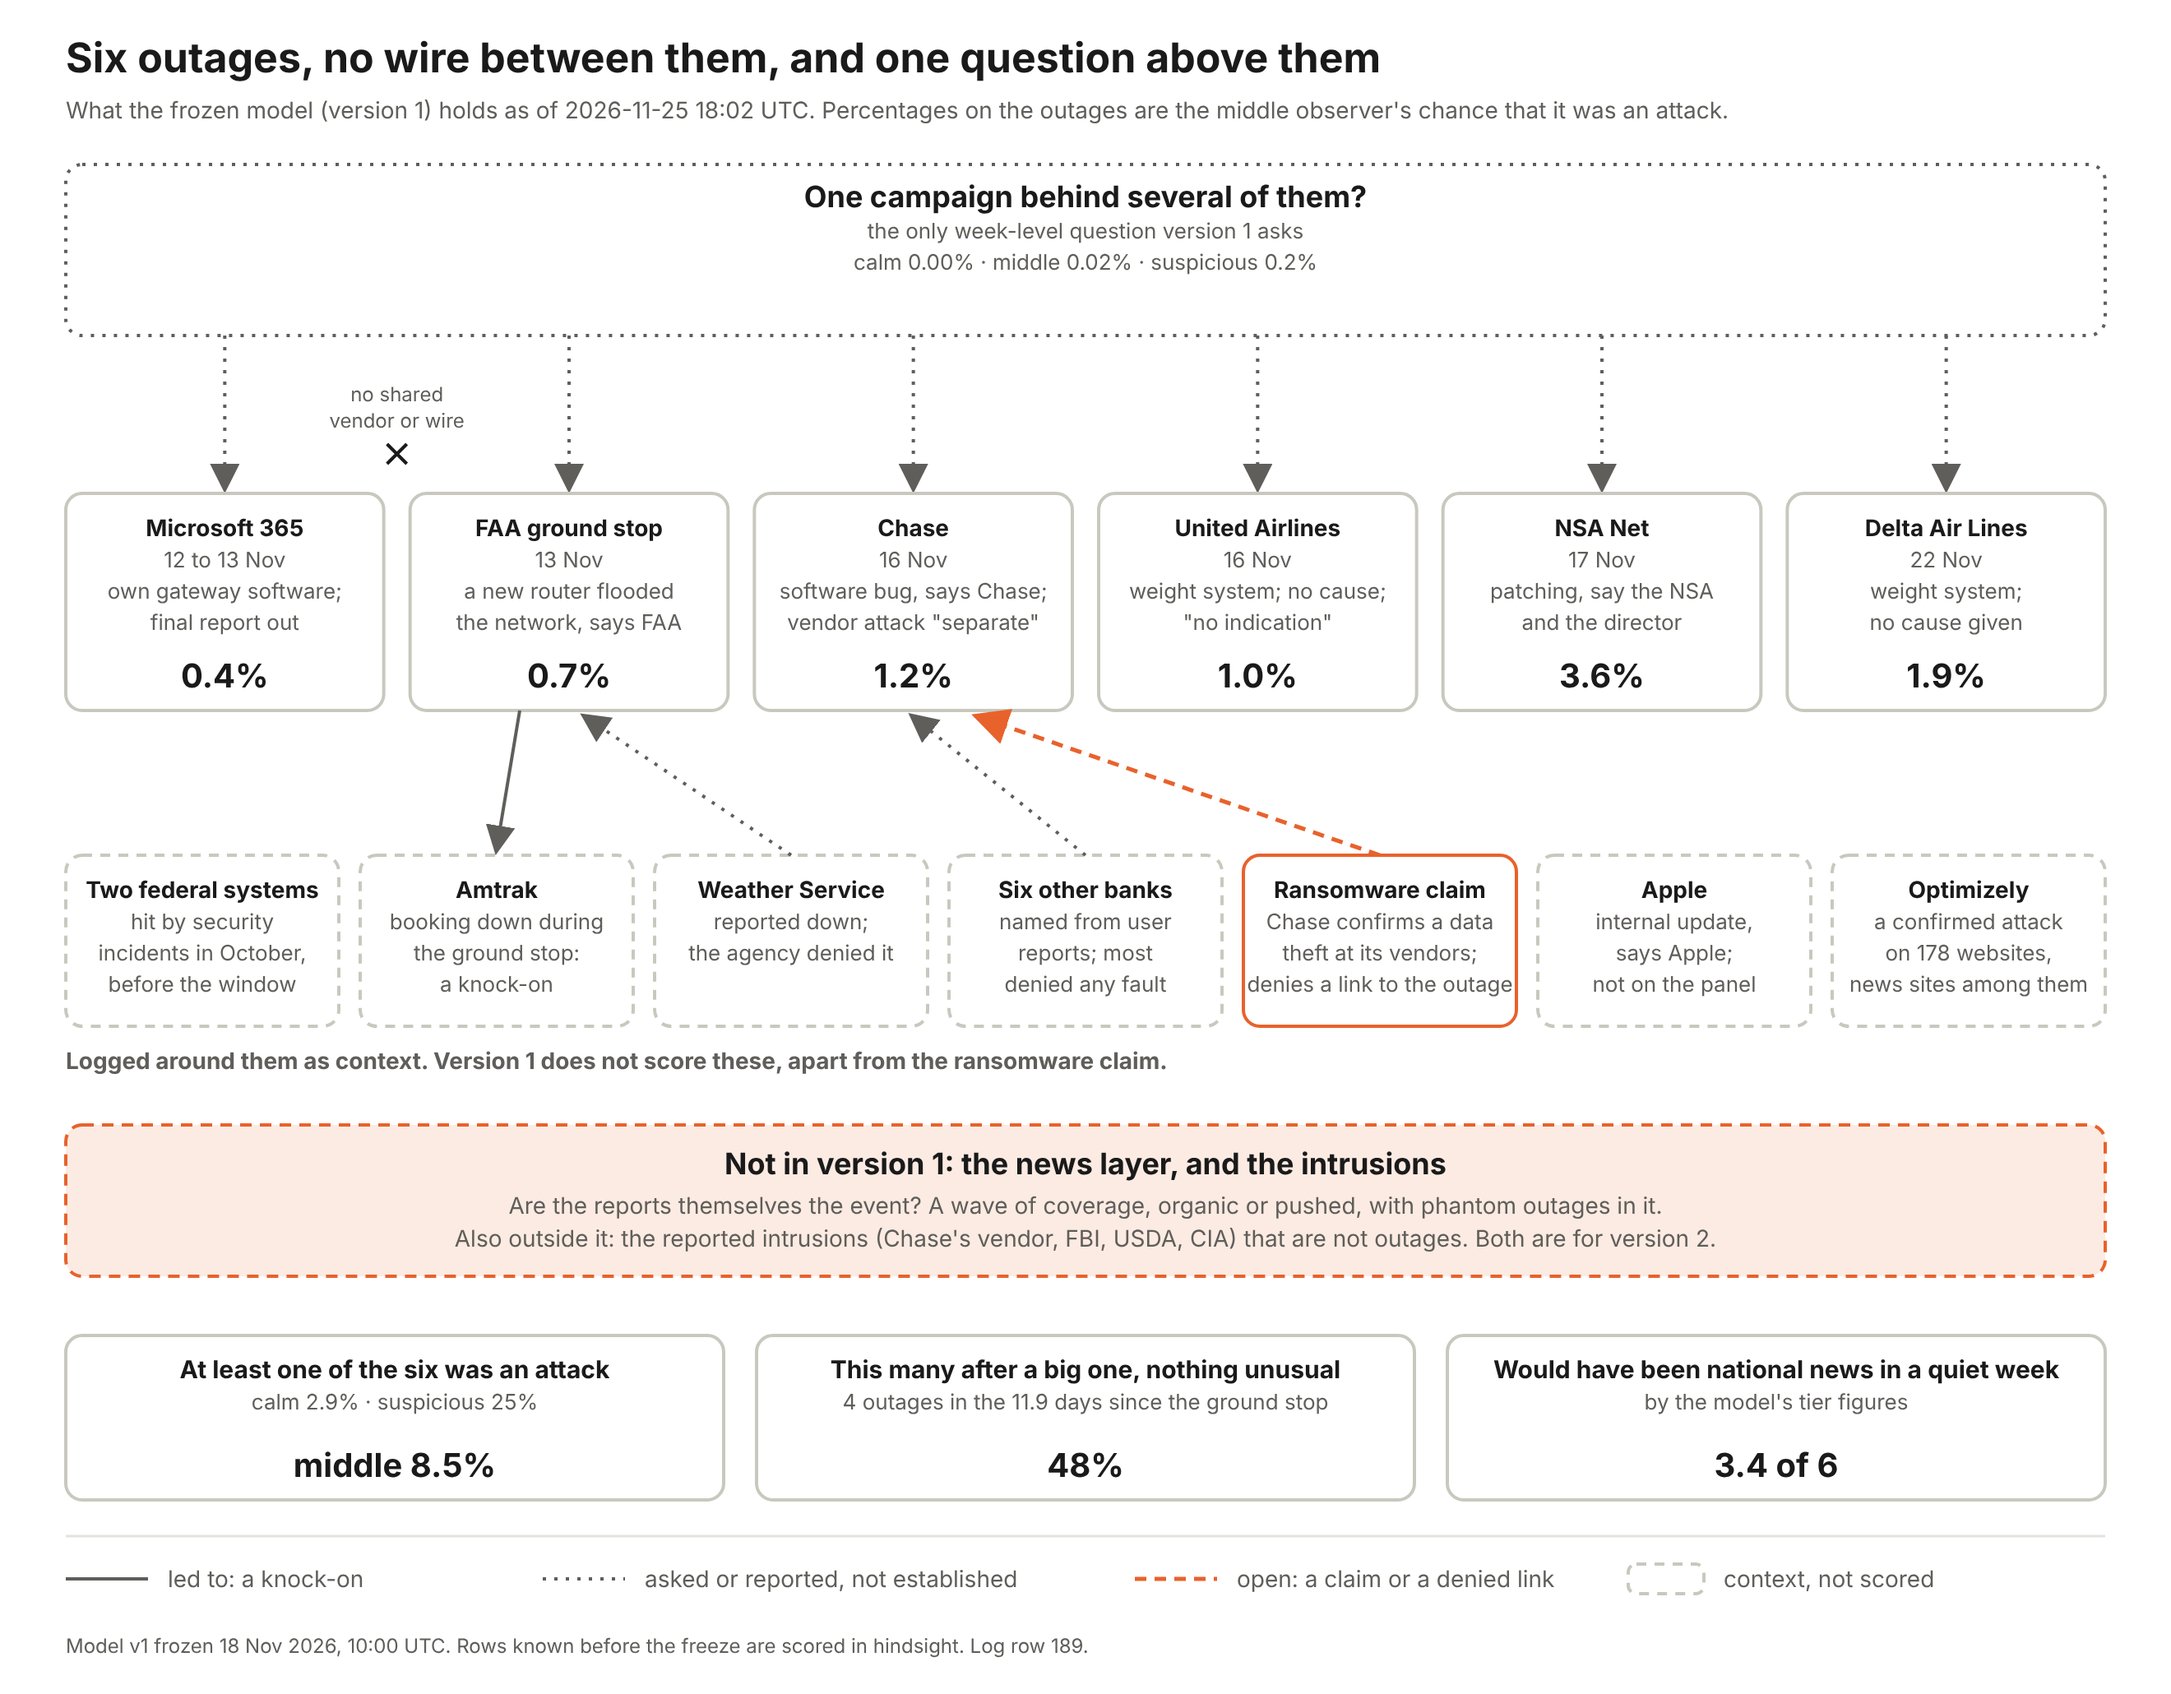
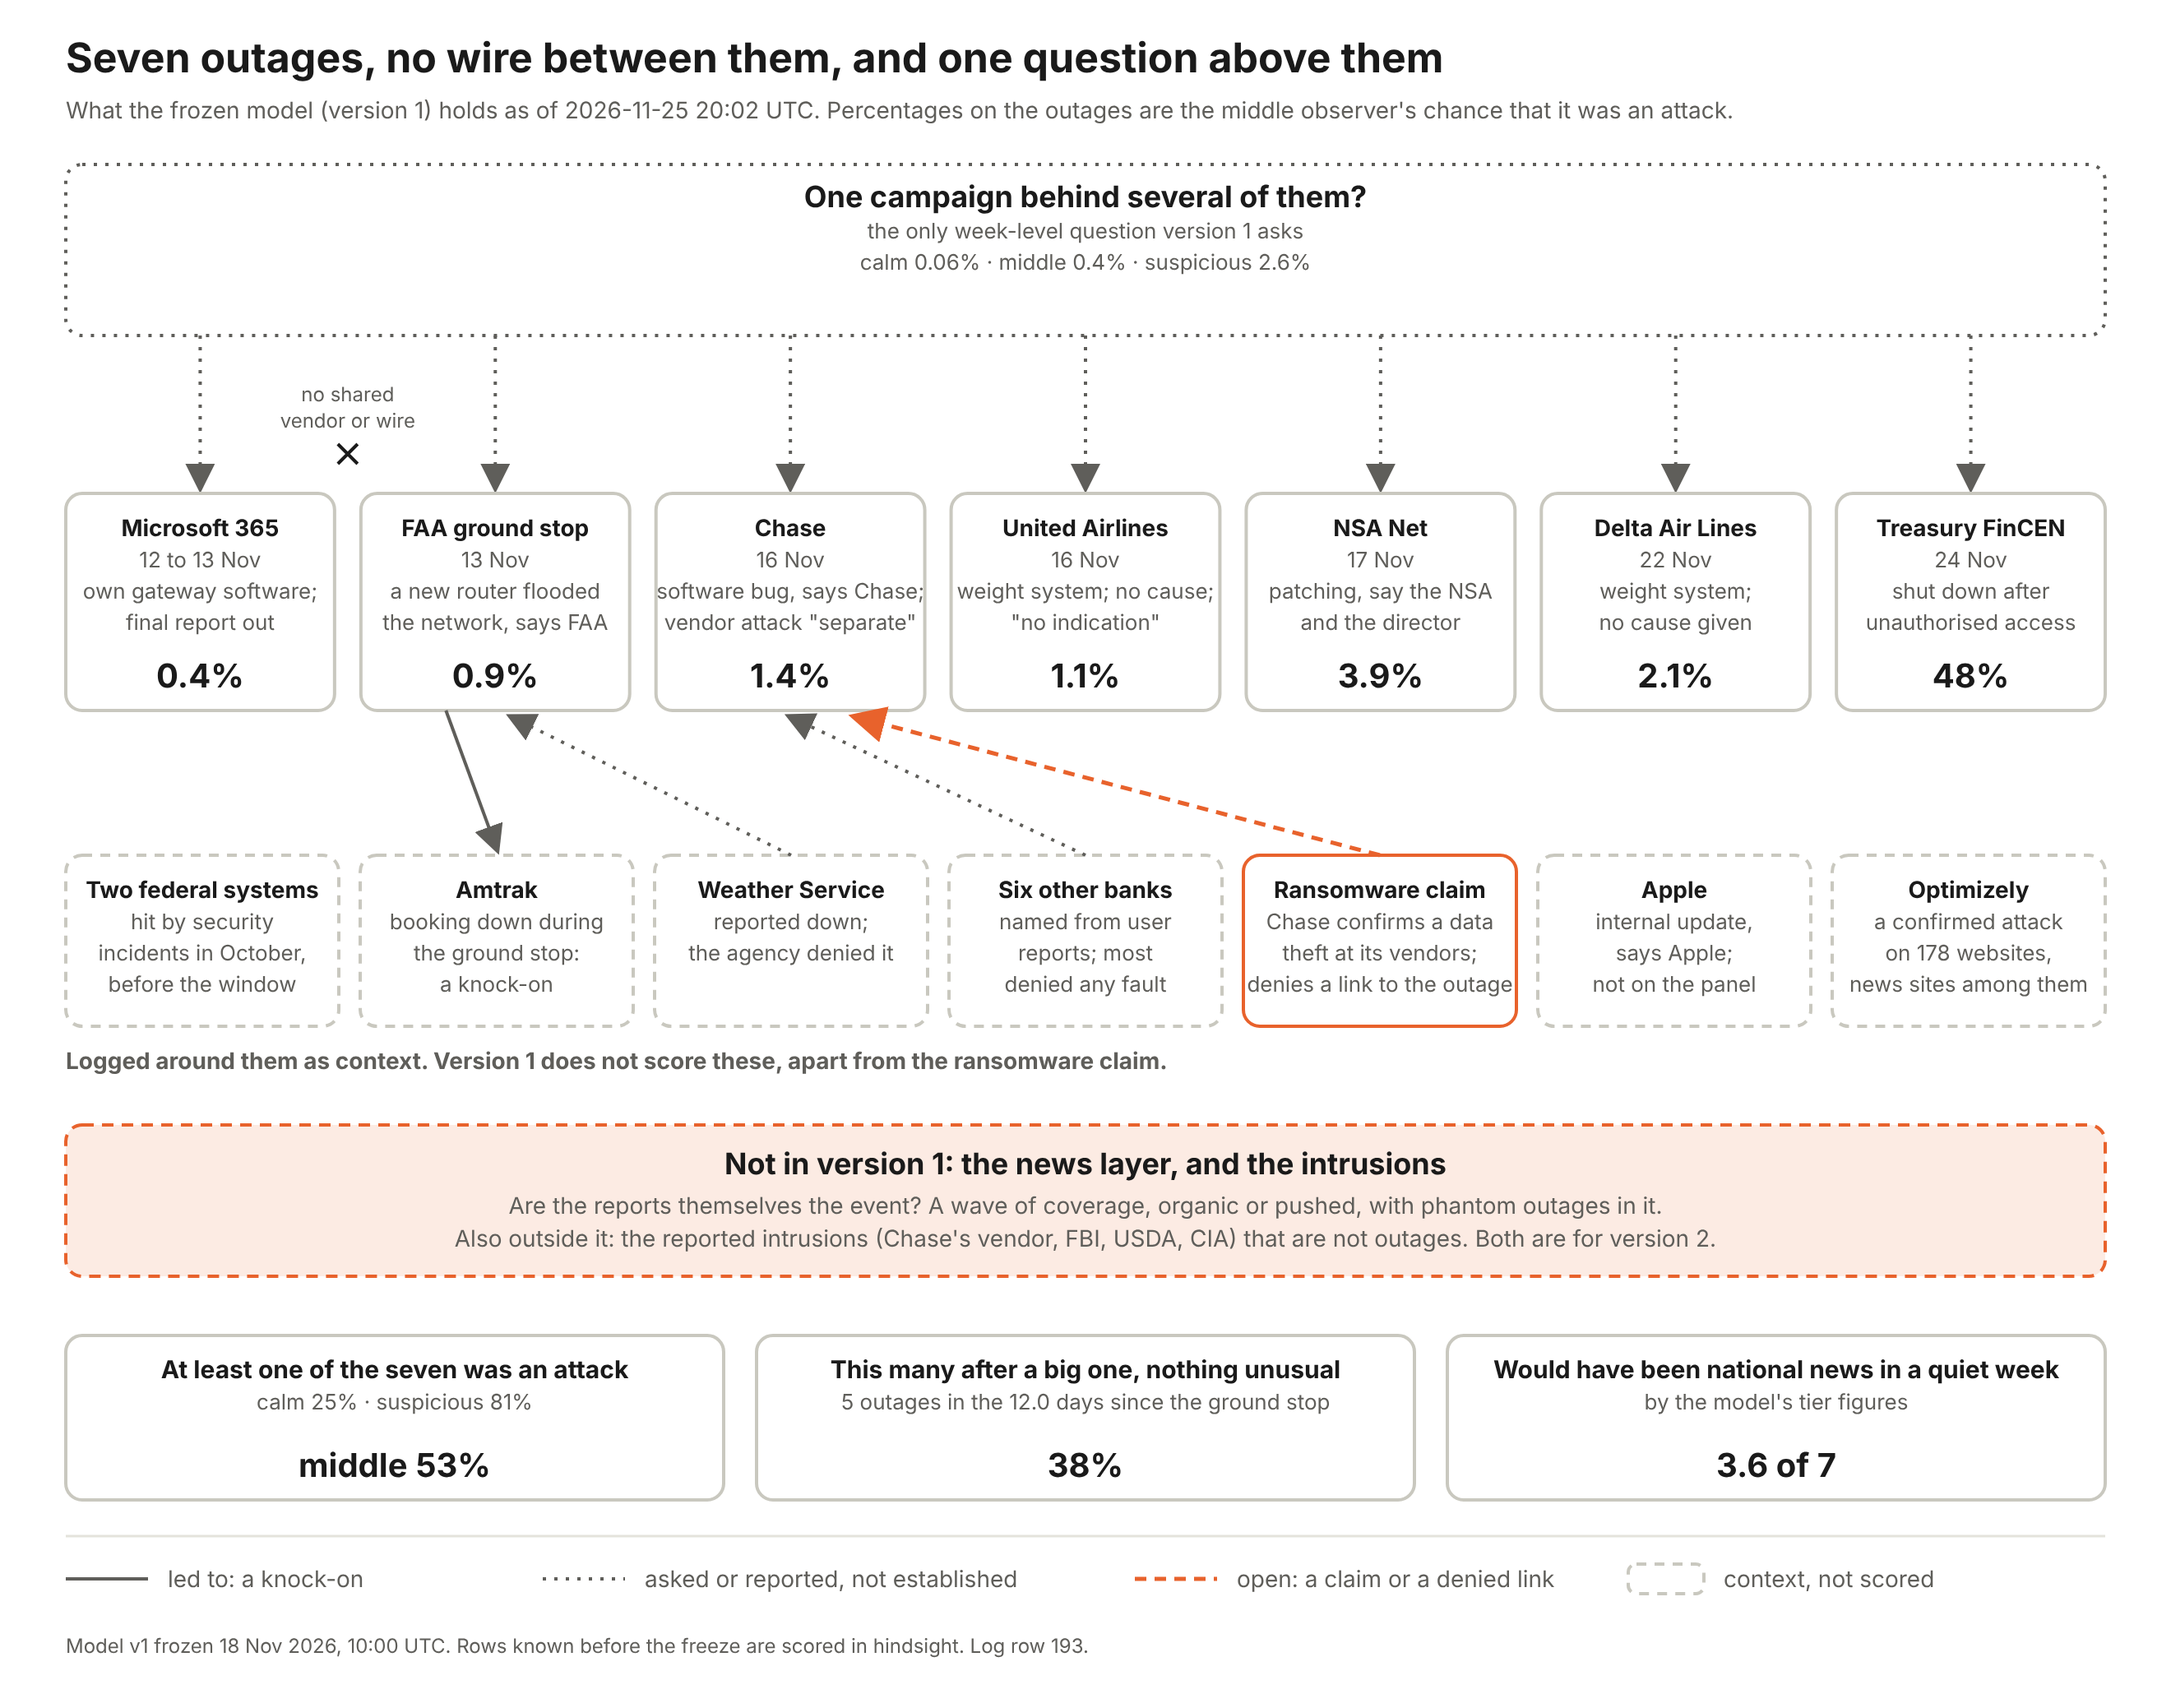
Log run 25 Nov 20:02 UTC: FinCEN shutdown counted as seventh event
Treasury's FinCEN says it found unauthorised access and took systems
offline. Counted under the fixed federal list; its own account scored
as attack_attribution_credible, flagged as a judgment to confirm or void.
CIA breach attribution detail logged as context. Diagram redrawn.

Claude-Session: https://claude.ai/code/session_01U66CedgGautdadz1gh9HFi

diff --git a/scripts/draw_state.py b/scripts/draw_state.py
@@ -59,7 +59,7 @@ def line(x1, y1, x2, y2, stroke=GREY, dash="2 5", arrow=True, width=2):
 
 
 W, H = 1320, 1030
-text(40, 44, "Six outages, no wire between them, and one question above them", 25, 700, INK, "start")
+text(40, 44, "Seven outages, no wire between them, and one question above them", 25, 700, INK, "start")
 text(40, 72, f"What the frozen model (version 1) holds as of {last['as_of'].replace('T', ' ').replace('Z', ' UTC')}. "
      "Percentages on the outages are the middle observer's chance that it was an attack.", 14, 400, GREY, "start")
 
@@ -74,7 +74,8 @@ E = [("ms365-nov12", "Microsoft 365", "12 to 13 Nov", ["own gateway software;", 
      ("chase-nov16", "Chase", "16 Nov", ["software bug, says Chase;", "vendor attack \"separate\""]),
      ("united-nov16", "United Airlines", "16 Nov", ["weight system; no cause;", "\"no indication\""]),
      ("nsanet-nov17", "NSA Net", "17 Nov", ["patching, say the NSA", "and the director"]),
-     ("delta-nov22", "Delta Air Lines", "22 Nov", ["weight system;", "no cause given"])]
+     ("delta-nov22", "Delta Air Lines", "22 Nov", ["weight system;", "no cause given"]),
+     ("fincen-nov24", "Treasury FinCEN", "24 Nov", ["shut down after", "unauthorised access"])]
 cx = []
 for i, (eid, name, when, lines) in enumerate(E):
     bw = (1240 - 16 * (len(E) - 1)) / len(E)
@@ -117,7 +118,7 @@ text(660, 738, "Are the reports themselves the event? A wave of coverage, organi
 text(660, 758, "Also outside it: the reported intrusions (Chase's vendor, FBI, USDA, CIA) that are not outages. Both are for version 2.", 14, 400, GREY)
 
 # outputs
-O = [("At least one of the six was an attack",
+O = [("At least one of the seven was an attack",
       [f"calm {pct(last['p_any_attack_calm'])}  ·  suspicious {pct(last['p_any_attack_suspicious'])}"],
       "middle " + pct(last["p_any_attack_middle"])),
      ("This many after a big one, nothing unusual",

diff --git a/HANDOFF.md b/HANDOFF.md
@@ -98,6 +98,7 @@ Status as of Saturday, 14 November 2026.
 - 25 Nov 14:02 UTC. Nothing new; checkpoint only. Delta's 'database issue' is one report's wording, not Delta's. P(campaign): 0.00%, 0.02%, 0.3%. P(at least one attack): 2.9%, 8.6%, 25%.
 - 25 Nov 16:02 UTC. Nothing new; checkpoint only. P(campaign): 0.00%, 0.02%, 0.2%. P(at least one attack): 2.9%, 8.6%, 25%.
 - 25 Nov 18:02 UTC. Nothing new; checkpoint only. O'Hare: the stop ran about 67 minutes by the FAA's times, the equipment outage itself still only has the 25-minute figure; stays uncounted. P(campaign): 0.00%, 0.02%, 0.2%. P(at least one attack): 2.9%, 8.5%, 25%.
+- 25 Nov 20:02 UTC. LARGE: Treasury's FinCEN says it found unauthorised access and took systems offline (notice of 24 Nov evening; ABC News). Counted as the seventh event, and its own account scored as attack_attribution_credible, a judgment for Dan to confirm or void. P(campaign): 0.06%, 0.4%, 2.6%. P(at least one attack): 25%, 53%, 81%; nearly all of that is this one event. Also: NYT sources tie the CIA breach to the ARTEX tool, China suspected, unconfirmed (context).
 
 ## Task waiting for a Claude Code session (written 17 November 2026, 16:50 Pacific)
 
